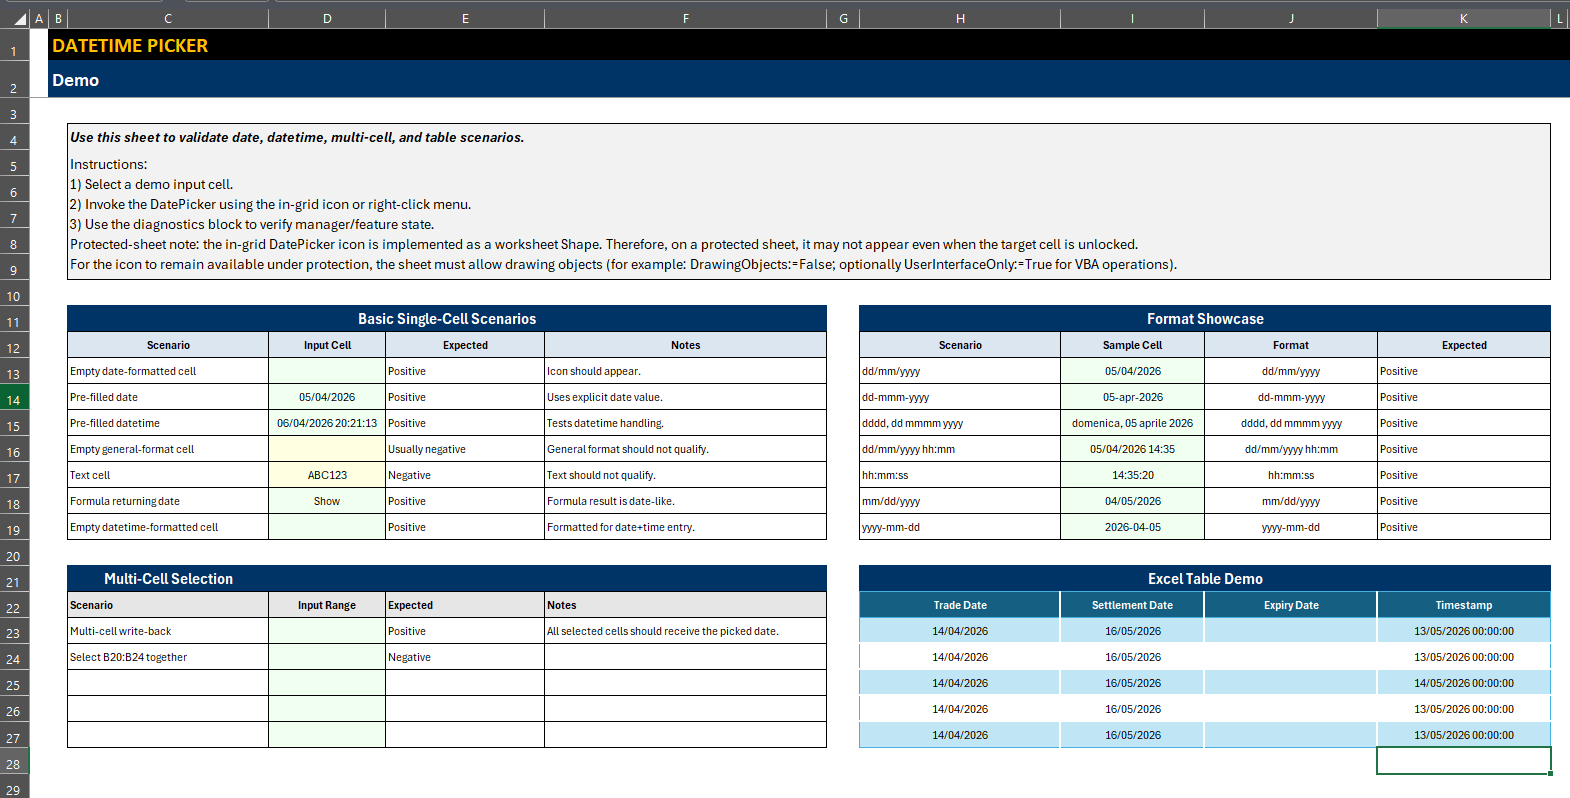
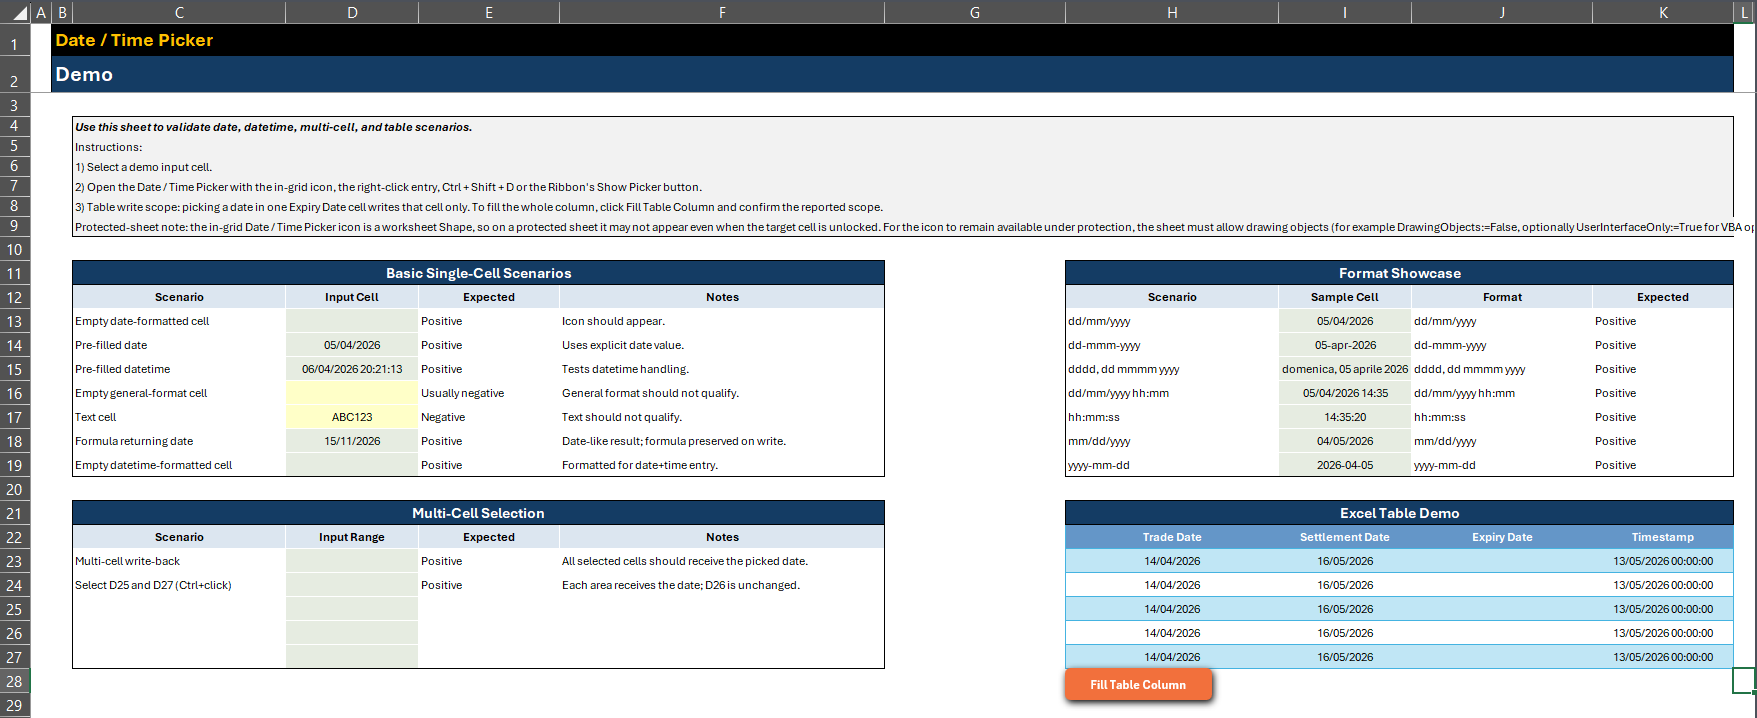
Replace the outdated demo-sheet screenshot (#216)
assets/datepicker-demosheet.png showed the DATETIME PICKER title, a
removed diagnostics step, a multi-cell scenario expected to be refused
and no Fill Table Column button. It is replaced by a screenshot of the
sheet built by the add-in from 7192264: the Date / Time Picker title,
the #213 instructions, the D25/D27 scenario and the button, cropped to
the worksheet grid with PNG text metadata stripped (1757x718).
index.html's declared size is updated, README's alt text describes
the sheet, the user manual shows the image, and CHANGELOG records it.

Validated: check.py 11 gates including Markdown links; the manual
still renders to a 13-page PDF; static checks and CodeQL green on
f5ae705; Codex review of f5ae705 found nothing.

Refs #214

Changed region(s): [[0.0, 0.0, 1.0, 1.0], [0.2185, 0.8579, 0.2497, 0.9499]]

diff --git a/index.html b/index.html
@@ -23,7 +23,7 @@
 <main id="main">
 <div class="hero"><div class="wrap"><div class="hero-grid"><div><p class="eyebrow">Built for Excel. Written in VBA.</p><h1>A better way<br>to <span>enter dates.</span></h1><p class="intro">Give your workbook a calendar. Pick a date, add a time, and keep working in Excel with a modeless picker that fits your workflow.</p><div class="actions"><a class="btn primary" href="https://github.com/danielep71/VBA-DATETIMEPICKER/releases/latest">Download the latest release ↓</a><a class="btn" href="#get-started">Embed in your workbook →</a></div><p class="meta">Excel desktop for Windows · Open source · Apache License 2.0</p></div><figure class="hero-visual"><div class="visual-top"><span><span class="live-dot"></span>Inside your worksheet</span><span>Actual component</span></div><img src="assets/datepicker-ingrid.png" width="615" height="434" alt="Date / Time Picker open beside a selected cell in an Excel worksheet"><figcaption class="caption">A calendar where you need it. Your workbook stays interactive.</figcaption></figure></div><div class="strip"><span><strong>01</strong> Modeless interface</span><span><strong>02</strong> Source-first integration</span><span><strong>03</strong> Explicit write scope</span><span><strong>04</strong> No third-party DLL</span></div></div></div>
 <section id="features"><div class="wrap"><div class="section-heading"><h2>Small interaction.<br>Better workbook experience.</h2><p>Designed for everyday date entry, with the controls and integration options a reusable VBA component needs.</p></div><div class="feature-grid"><article class="feature"><span class="number">01 / PICK</span><h3>Dates without the typing.</h3><p>Navigate months and years, choose Today or Time, and use keyboard navigation. The modeless form leaves Excel available while it is open.</p></article><article class="feature"><span class="number">02 / INTEGRATE</span><h3>Meet users in their workflow.</h3><p>Offer a right-click entry, an in-grid icon, a keyboard shortcut that is on by default, or a Ribbon button. Configure the access paths that suit your workbook.</p></article><article class="feature"><span class="number">03 / CONTROL</span><h3>Make every write deliberate.</h3><p>Calendar selection writes only to the current selection by default, including in Excel Tables. Formulas are preserved by default; whole-column filling is an explicit operation.</p></article></div></div></section>
-<section class="showcase" id="in-action"><div class="wrap"><div class="section-heading"><h2>A familiar calendar.<br>A more capable input.</h2><p>Explore the actual interface: date selection, month and year navigation, settings, and the demo worksheet.</p></div><figure class="screenshot"><img src="assets/datepicker-main.png" width="3066" height="1255" loading="lazy" alt="Three views of the picker: daily calendar, month selection, and year selection"><figcaption>Move from a day to a month to a year, with Today and Time close at hand.</figcaption></figure><div class="gallery"><figure class="screenshot"><img src="assets/datepicker-demosheet.png" width="1570" height="798" loading="lazy" alt="Excel demonstration worksheet for testing Date / Time Picker interactions"><figcaption>Try the component in a purpose-built demo worksheet.</figcaption></figure><figure class="screenshot"><img src="assets/datepicker-settings.png" width="3042" height="1238" loading="lazy" alt="Date / Time Picker settings panels showing configurable behavior"><figcaption>Configure the experience, including access paths and display options.</figcaption></figure></div></div></section>
+<section class="showcase" id="in-action"><div class="wrap"><div class="section-heading"><h2>A familiar calendar.<br>A more capable input.</h2><p>Explore the actual interface: date selection, month and year navigation, settings, and the demo worksheet.</p></div><figure class="screenshot"><img src="assets/datepicker-main.png" width="3066" height="1255" loading="lazy" alt="Three views of the picker: daily calendar, month selection, and year selection"><figcaption>Move from a day to a month to a year, with Today and Time close at hand.</figcaption></figure><div class="gallery"><figure class="screenshot"><img src="assets/datepicker-demosheet.png" width="1757" height="718" loading="lazy" alt="Excel demonstration worksheet for testing Date / Time Picker interactions"><figcaption>Try the component in a purpose-built demo worksheet.</figcaption></figure><figure class="screenshot"><img src="assets/datepicker-settings.png" width="3042" height="1238" loading="lazy" alt="Date / Time Picker settings panels showing configurable behavior"><figcaption>Configure the experience, including access paths and display options.</figcaption></figure></div></div></section>
 <section id="get-started"><div class="wrap"><div class="setup-grid"><div class="setup-copy"><p class="eyebrow">Your workbook. Your source.</p><h2>Start with the release.<br>Make it your own.</h2><p>Embed the reviewed VBA source so the picker travels with your workbook. Prefer an add-in? Published releases also offer a convenient <code>.xlam</code> option.</p><div class="paths"><div class="path"><h3>Try it in Excel</h3><p>Choose the demo workbook or add-in from the latest release. Read its notes and requirements before opening.</p><a href="https://github.com/danielep71/VBA-DATETIMEPICKER/releases/latest">Browse release assets ↗</a></div><div class="path"><h3>Integrate the source</h3><p>Follow the full import list, compile the project, and add lifecycle calls to <code>ThisWorkbook</code>.</p><a href="https://github.com/danielep71/VBA-DATETIMEPICKER/blob/main/INSTALLATION.md">Read the installation guide ↗</a></div></div></div><div><div class="code-panel"><div class="code-title"><span>ThisWorkbook</span><span>VBA</span></div><pre><code><span class="keyword">Option Explicit</span>
 
 <span class="comment">' After importing the required source files:</span>

diff --git a/CHANGELOG.md b/CHANGELOG.md
@@ -380,6 +380,13 @@ Use only the categories needed by a release.
 
 ### Documentation
 
+- The demo-sheet screenshot, `assets/datepicker-demosheet.png`, shows the
+  current sheet ([#214](https://github.com/danielep71/VBA-DATETIMEPICKER/issues/214)).
+  The old one showed the `DATETIME PICKER` title, a removed diagnostics step,
+  and a multi-cell scenario expected to be refused, which #191 corrected. The
+  new one shows the Date / Time Picker title and instructions, the D25/D27
+  scenario and the **Fill Table Column** button. README, the project website
+  and the user manual show it.
 - A user manual for people who use the picker in Excel, not for developers:
   [`docs/USER_MANUAL.md`](docs/USER_MANUAL.md) ([#209](https://github.com/danielep71/VBA-DATETIMEPICKER/issues/209)). It covers:
   - installing the add-in;

diff --git a/docs/USER_MANUAL.md b/docs/USER_MANUAL.md
@@ -389,6 +389,12 @@ The demo sheet lets you try the picker on prepared cells. Open it with
 The sheet is named `DATE PICKER DEMO`. Its title band reads
 **Date / Time Picker** / **Demo**. It has four sections:
 
+<p align="center">
+  <img width="100%"
+       alt="The DATE PICKER DEMO sheet: title band, instructions, Basic Single-Cell Scenarios, Format Showcase, Multi-Cell Selection and the Excel Table Demo with its Fill Table Column button"
+       src="../assets/datepicker-demosheet.png">
+</p>
+
 | Section | What it shows |
 |---|---|
 | **Basic Single-Cell Scenarios** | Cells that should and should not get the icon: an empty date cell, a date, a date and time, a General cell, a text cell, a formula `=TODAY()`, an empty date-and-time cell. The **Expected** column says what should happen. |

diff --git a/README.md b/README.md
@@ -1285,7 +1285,7 @@ The `v1.2.2` figures are historical development-host figures at `d99fefa`, taken
 
 <p align="center">
   <img width="100%"
-       alt="VBA Date / Time Picker demo worksheet"
+       alt="Date / Time Picker demo worksheet: instructions, single-cell, format, multi-cell and Excel Table scenarios, with the Fill Table Column button"
        src="assets/datepicker-demosheet.png">
 </p>
 
